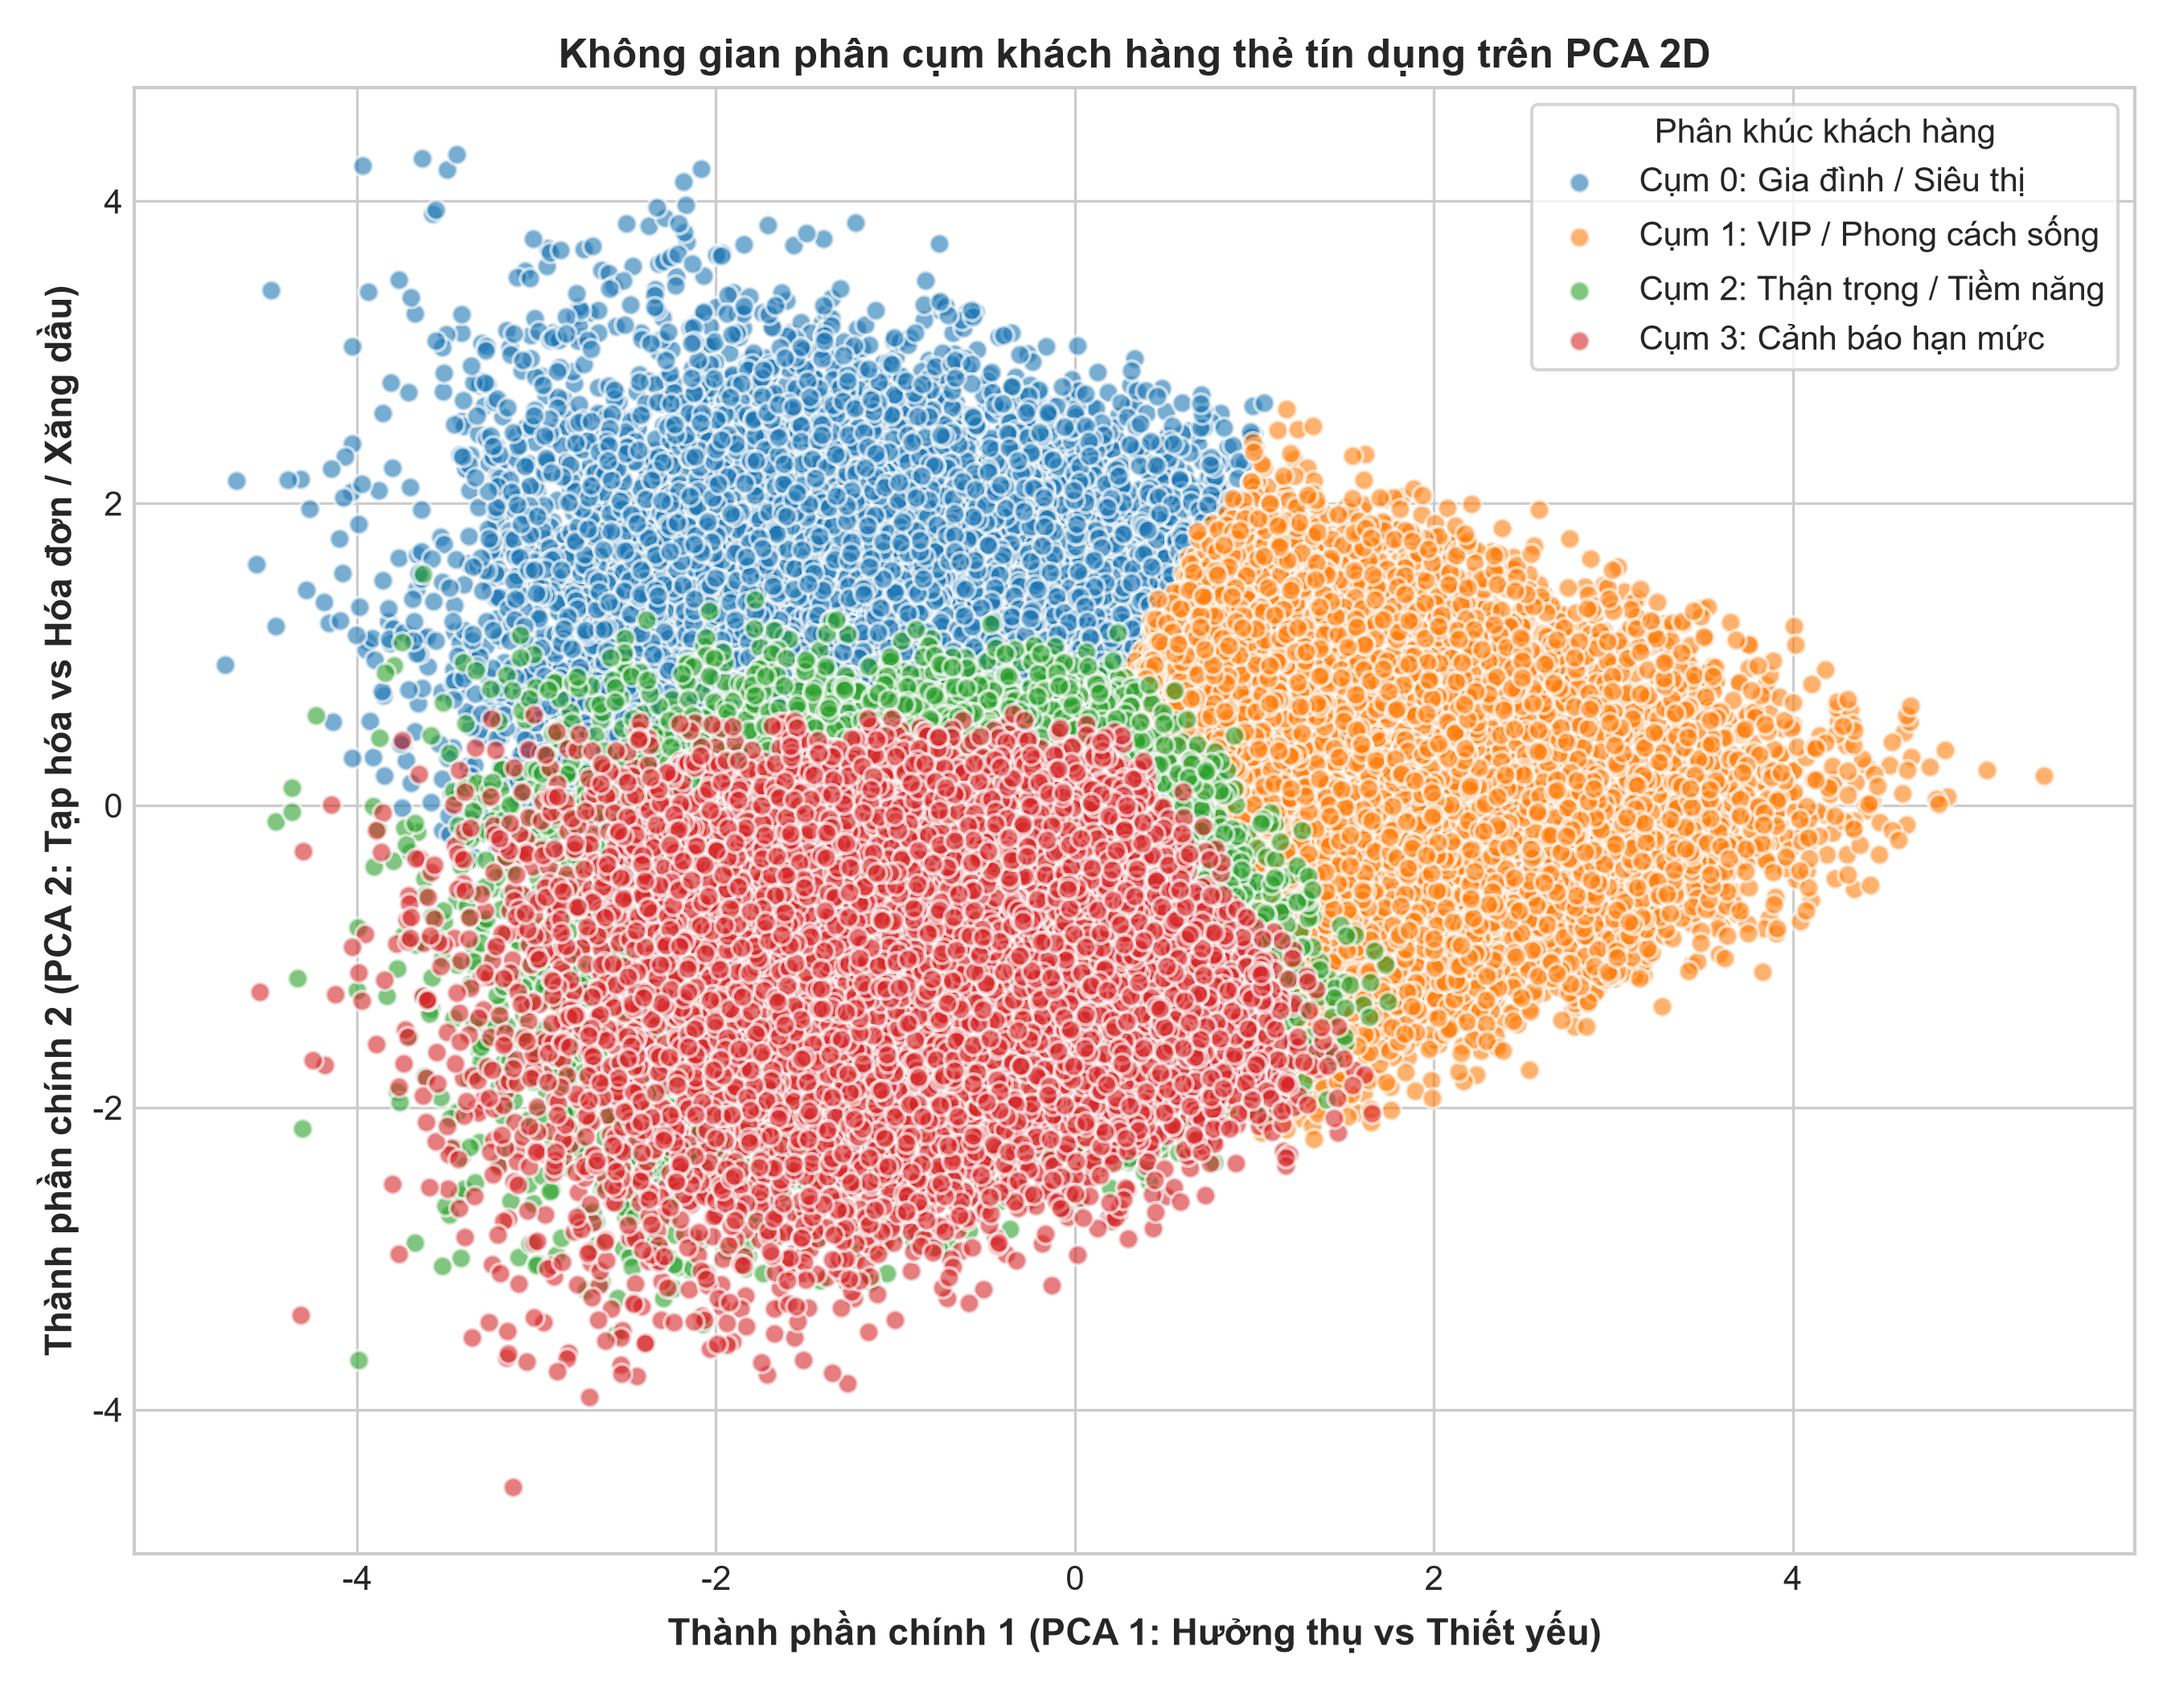
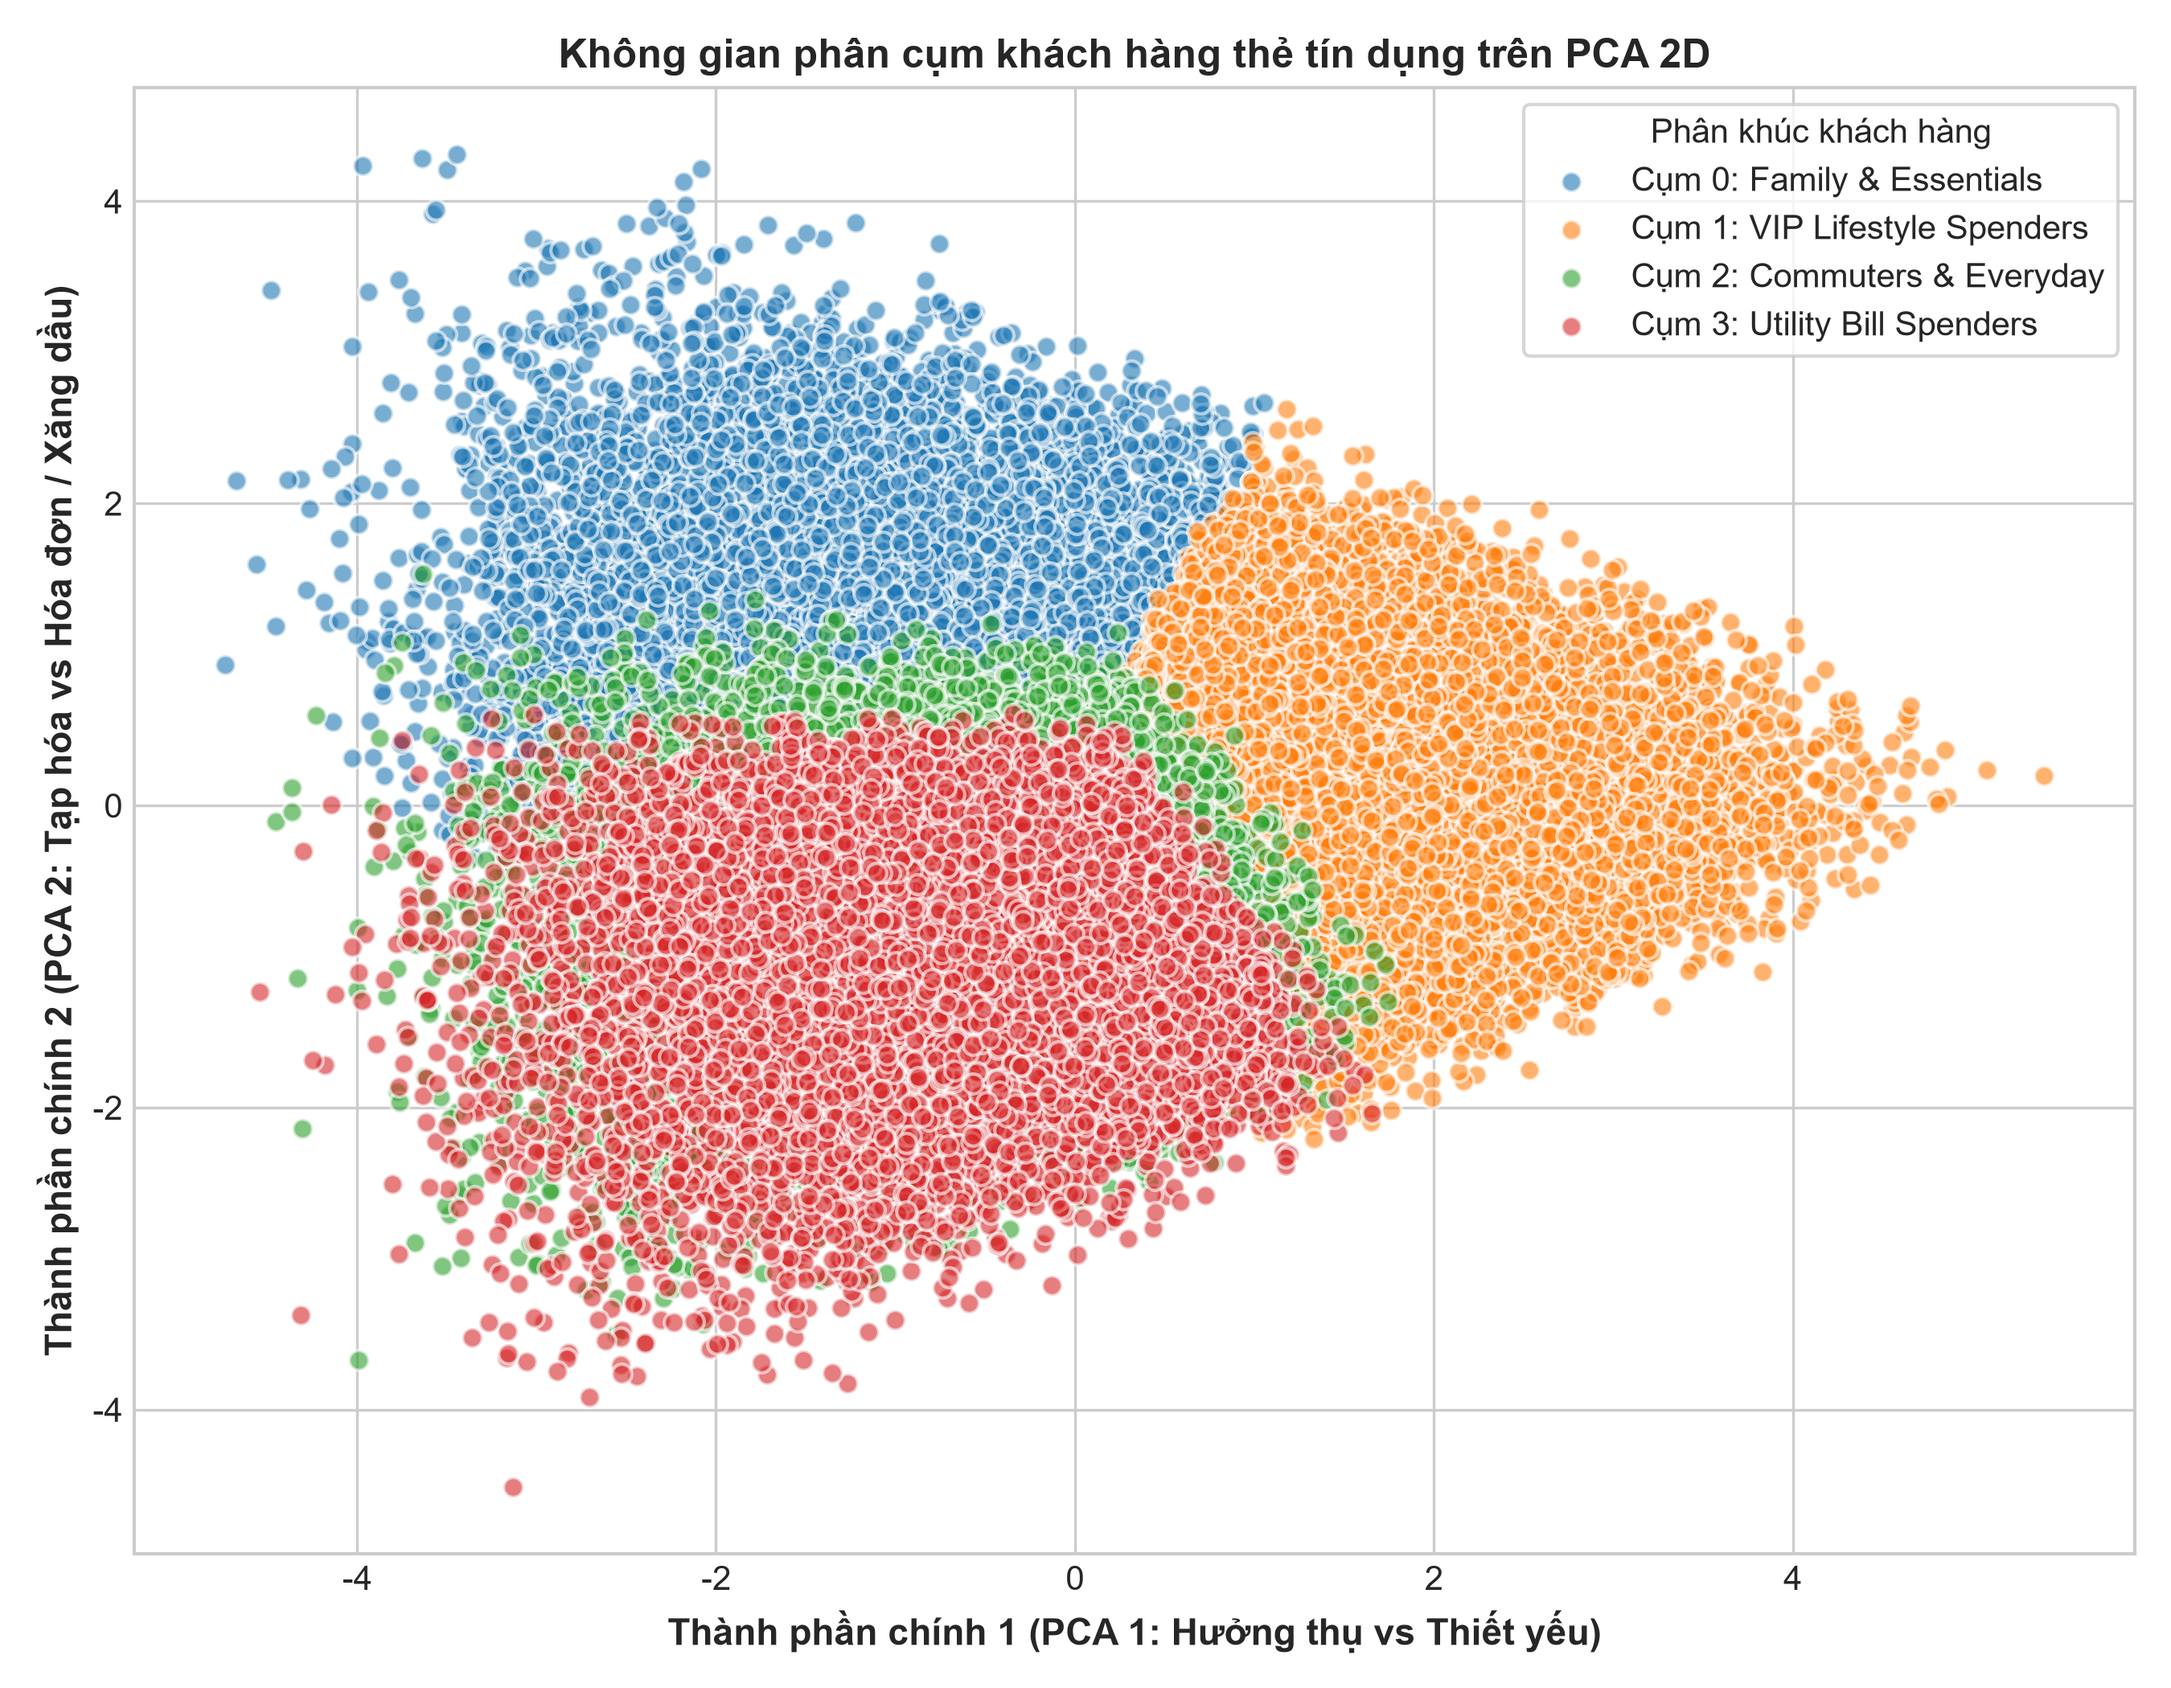
Update PCA cluster legend labels and sample recommendations

Changed region(s): [[0.6844, 0.0619, 0.9644, 0.2167]]

diff --git a/source_code/models/recommender.py b/source_code/models/recommender.py
@@ -161,3 +161,65 @@ class CustomerBehaviorScorer:
             "spending": round(float(customer_row['Monthly_Spending']), 4),
             "recommendation_strategy": recommendation_strategy
         }
+
+    # Hàm trích xuất 4 khách hàng mẫu đại diện cho 4 nhóm nhân quả Uplift phục vụ thuyết trình và báo cáo
+    def generate_sample_recommendations(self, customer_report_df: pd.DataFrame) -> pd.DataFrame:
+        # In thông báo trích xuất bảng mẫu
+        print("[SAMPLE] Đang trích xuất 4 khách hàng mẫu đại diện cho 4 nhóm nhân quả Uplift Modeling...")
+        
+        # 1. Khách hàng Persuadables: An toàn, nhạy bén ưu đãi cao nhất
+        c1 = customer_report_df[
+            (customer_report_df['Uplift_Segment'] == 'Persuadables') &
+            (customer_report_df['Risk_Status'] == 'SAFE') &
+            (customer_report_df['Dominant_Expense_Category'] == 'Online_Shopping_Spending')
+        ].sort_values(by='Uplift_Score', ascending=False)
+        row1 = c1.iloc[0].copy() if not c1.empty else customer_report_df[customer_report_df['Uplift_Segment'] == 'Persuadables'].iloc[0].copy()
+        row1['Proposed_Action'] = "Targeted incentive: Grant 15% cashback e-voucher for Online Shopping + 3x dynamic reward points on weekend transactions."
+
+        # 2. Khách hàng Sure Things: Tự thân chi tiêu cao, rủi ro thấp, trung thành
+        c2 = customer_report_df[
+            (customer_report_df['Uplift_Segment'] == 'Sure Things') &
+            (customer_report_df['Card_Type'].isin(['Signature', 'Platinum'])) &
+            (customer_report_df['Risk_Status'] == 'SAFE')
+        ].sort_values(by='Monthly_Spending', ascending=False)
+        row2 = c2.iloc[0].copy() if not c2.empty else customer_report_df[customer_report_df['Uplift_Segment'] == 'Sure Things'].iloc[0].copy()
+        row2['Proposed_Action'] = "Organic loyalty retention: Retain profit margin by waiving cash vouchers; provide premium non-monetary privileges (VIP Airport lounge access & Platinum concierge)."
+
+        # 3. Khách hàng Lost Causes: Vi phạm ngưỡng an toàn rủi ro tín dụng (Safety Risk Gate)
+        c3 = customer_report_df[
+            (customer_report_df['Uplift_Segment'] == 'Lost Causes') &
+            (customer_report_df['Risk_Status'].str.startswith('HIGH_RISK'))
+        ].sort_values(by='Credit_Utilization', ascending=False)
+        row3 = c3.iloc[0].copy() if not c3.empty else customer_report_df[customer_report_df['Uplift_Segment'] == 'Lost Causes'].iloc[0].copy()
+        row3['Proposed_Action'] = "Safety risk gate activated: Freeze promotional marketing & credit limits; offer 0% APR Equal Monthly Installment (EMI) debt restructuring to mitigate default risk."
+
+        # 4. Khách hàng Sleeping Dogs: Chi tiêu rất thấp, ít tương tác, nhạy cảm tiêu cực
+        c4 = customer_report_df[
+            (customer_report_df['Uplift_Segment'] == 'Sleeping Dogs') &
+            (customer_report_df['Uplift_Score'] < 0)
+        ].sort_values(by='Monthly_Spending', ascending=True)
+        row4 = c4.iloc[0].copy() if not c4.empty else customer_report_df[customer_report_df['Uplift_Segment'] == 'Sleeping Dogs'].iloc[0].copy()
+        row4['Proposed_Action'] = "Dormancy preservation: Cease outbound marketing pushes and spam alerts to prevent churn/dormancy; maintain passive in-app utility cashbacks only."
+
+        # Tổng hợp thành DataFrame 4 dòng đại diện
+        sample_df = pd.DataFrame([row1, row2, row3, row4])
+
+        # Thứ tự các cột chuẩn trình bày khoa học
+        display_cols = [
+            "Customer_ID",
+            "Cluster",
+            "Card_Type",
+            "Monthly_Spending",
+            "Dominant_Expense_Category",
+            "Credit_Score",
+            "Credit_Utilization",
+            "Payment_Ratio",
+            "Dynamic_Reward_Points",
+            "Risk_Status",
+            "Uplift_Score",
+            "Uplift_Segment",
+            "Proposed_Action"
+        ]
+        sample_df = sample_df[display_cols].reset_index(drop=True)
+        print(f"[SAMPLE] Hoàn thành tạo bảng 4 khách hàng mẫu đại diện cho 4 góc phần tư nhân quả!")
+        return sample_df

diff --git a/source_code/eda/visualizer.py b/source_code/eda/visualizer.py
@@ -89,16 +89,16 @@ def plot_pca_clusters(pca_2d: np.ndarray, labels: np.ndarray, output_path: str) 
     plt.figure(figsize=(9, 7))
     # Định nghĩa danh sách 4 màu sắc tương ứng với 4 cụm
     colors = ['#1f77b4', '#ff7f0e', '#2ca02c', '#d62728']
-    # Định nghĩa tên nhãn cụm tiếng Việt có dấu cho từng nhóm
+    # Định nghĩa tên nhãn cụm đồng bộ với báo cáo và chân dung 4 nhóm
     cluster_names = [
         # Nhãn đại diện cho cụm 0
-        'Cụm 0: Gia đình / Siêu thị',
+        'Cụm 0: Family & Essentials',
         # Nhãn đại diện cho cụm 1
-        'Cụm 1: VIP / Phong cách sống',
+        'Cụm 1: VIP Lifestyle Spenders',
         # Nhãn đại diện cho cụm 2
-        'Cụm 2: Thận trọng / Tiềm năng',
+        'Cụm 2: Commuters & Everyday',
         # Nhãn đại diện cho cụm 3
-        'Cụm 3: Cảnh báo hạn mức'
+        'Cụm 3: Utility Bill Spenders'
     # Kết thúc danh sách tên cụm
     ]
     # Lặp qua từng cụm để vẽ các điểm dữ liệu

diff --git a/source_code/main.py b/source_code/main.py
@@ -220,6 +220,13 @@ def main():
     # Xuất toàn bộ báo cáo từng khách hàng ra tệp CSV
     save_dataframe_safely(customer_report_df, customer_report_path)
 
+    # Trích xuất bảng minh họa mẫu 4 khách hàng đại diện cho 4 nhóm nhân quả Uplift
+    sample_recommendations_df = scorer.generate_sample_recommendations(customer_report_df)
+    # Đường dẫn lưu tệp CSV bảng mẫu đề xuất ưu đãi
+    sample_recommendations_path = os.path.join(REPORTS_DIR, 'sample_recommendations.csv')
+    # Lưu bảng mẫu ra CSV an toàn phục vụ thuyết trình slide và báo cáo
+    save_dataframe_safely(sample_recommendations_df, sample_recommendations_path)
+
     # -------------------------------------------------------------
     # BƯỚC 7: KIỂM CHỨNG MÔ HÌNH MACHINE LEARNING VÀ MÔ HÌNH LAI STACKING
     # -------------------------------------------------------------
